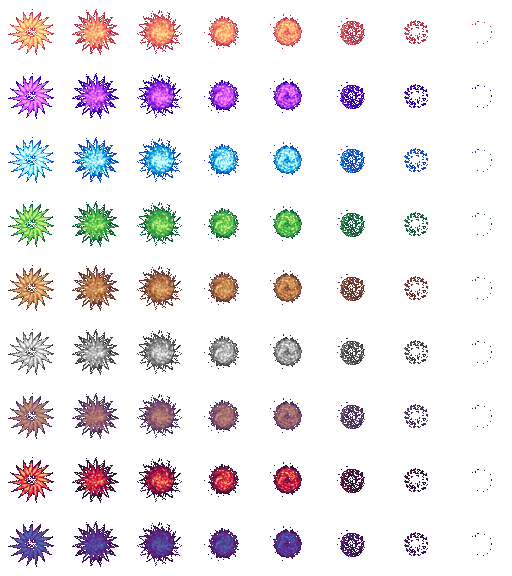
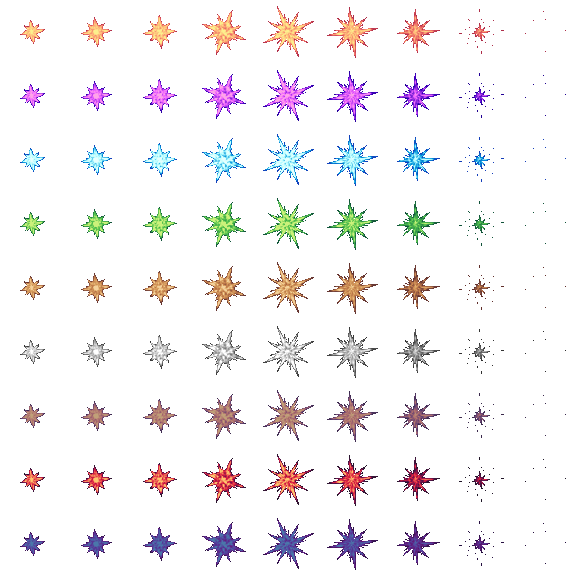
final balance changes

diff --git a/static/index.js b/static/index.js
@@ -299,8 +299,8 @@ let enemyInfo = {
         "delay": 60,
     },
     "mage": {
-        "maxHealth": 4,
-        "attackDamage": 2,
+        "maxHealth": 3,
+        "attackDamage": 1,
         "speed": 3,
         "attackDistance": 6,
         "canKnockback": true,
@@ -446,7 +446,7 @@ function init() {
         {"var": healthGainImage, "url": "static/images/stats/HEALTH_GAIN.png"},
         {"var": powerupImage, "url": "static/images/stats/POWERUPS.png"},
         {"var": spikesImage, "url": "static/images/spikes.png"},
-        {"var": bossEffect, "url": "static/images/bossEffect.svg"},
+        {"var": bossEffect, "url": "static/images/bossEffect.png"},
         {"var": audioUp, "url": "static/images/volume-up.svg"},
         {"var": audioMute, "url": "static/images/volume-mute.svg"},
         {"var": walkAudio, "url": "static/audio/walk.wav"},
@@ -500,7 +500,6 @@ function draw() {
 
             handleEnemyAttacking();
 
-            drawEnemies();
             
             handleEnemyProjectiles();
 
@@ -509,6 +508,8 @@ function draw() {
             moveEnemies();
 
             handleBoss();
+            
+            drawEnemies();
 
             movePlayer(); 
 
@@ -1437,6 +1438,12 @@ function moveEnemies() {
 let bossEnemySpawnTimer = 0;
 let bossEnemiesCanSpawn = true;
 let canTeleport = true;
+let effectActive = false;
+let effectFrame = 7;
+let effectFrameCounter = 1;
+let effectReverse = false;
+let effectRepeats = 2;
+
 function handleBoss () {
     if (boss) {
         if (boss.isHit) {
@@ -1460,7 +1467,43 @@ function handleBoss () {
 
         if (elapsed >= 20000) {
             bossEnemiesCanSpawn = true;
-            enemySpawnQueue.push("paladin 1", "mage 2");
+            effectActive = true;
+        }
+        // draws a star shape around the boss to indicate he is spawning enemies
+        if(effectActive) {
+            context.drawImage(bossEffect, effectFrame*64, 128, 64, 64,
+                boss.x, boss.y+24, 64, 64)
+
+            if (!effectReverse) {
+                if (effectFrameCounter === 0) {
+                    effectFrame --;
+                    effectFrameCounter = 2;
+                    if (effectFrame === 0) {
+                        effectReverse = true;
+                    }
+                }
+                else {
+                    effectFrameCounter --;
+                }
+            }
+            else {
+                if (effectFrameCounter === 0) {
+                    effectFrame ++
+                    effectFrameCounter = 2;
+                    if (effectFrame === 7) {
+                        effectReverse = false;
+                        effectRepeats --;
+                    }
+                }
+                else {
+                    effectFrameCounter --;
+                }
+            }
+            if (effectRepeats === 0) {
+                effectActive = false;
+                effectRepeats = 2;
+                enemySpawnQueue.push("paladin 3", "mage 3"); // the boss spawns enemies
+            }
         }
     }
 
@@ -1871,13 +1914,13 @@ function load_assets(assets, callback) {
 }
 
 let obstacles = [];
-let obstaclesAmount = 5;
+let obstaclesAmount = 3;
 
 function createObstacles() {
     while (obstacles.length < obstaclesAmount) {
         let isValid = true;
-        let obX = randint(boundaryLocation()["left"]*8, boundaryLocation()["right"]-2*squareSize);
-        let obY = randint(boundaryLocation()["up"]*4, boundaryLocation()["down"]-2*squareSize);
+        let obX = randint(boundaryLocation()["left"], boundaryLocation()["right"]);
+        let obY = randint(boundaryLocation()["up"]+32, boundaryLocation()["down"]-32);
 
         if (!(obX % squareSize === 0)) {
             obX = (Math.round(obX / squareSize) * squareSize) + 1;
@@ -1890,9 +1933,21 @@ function createObstacles() {
             obY++;
         }
 
+        let o = { 
+            x: obX, 
+            y: obY, 
+            width: squareSize,
+            height: squareSize, 
+        };
+
         // obstacles cant spawn near player
         if ((player.x - 3*squareSize <= obX && player.x + 3*squareSize >= obX) && 
             (player.y - 3*squareSize <= obY && player.y + 3*squareSize >= obY)) {
+            isValid = false;
+            break;
+        }
+        
+        if (collides(o, spawn)) {
             isValid = false;
             break;
         }
@@ -1906,14 +1961,7 @@ function createObstacles() {
             }
         } 
         if (isValid) {    
-            let o = { 
-                x: obX, 
-                y: obY, 
-                width: squareSize,
-                height: squareSize, 
-            };
-                
-                obstacles.push(o);
+            obstacles.push(o);
         }
     }
 
@@ -2100,7 +2148,7 @@ function handlePowerups() {
 
 let levelTransitionActive = false;
 let transitionStartTime = 0;
-let transitionDuration = 1//4000;
+let transitionDuration = 4000;
 let nextLevelReady = false;
 
 function handleLevelTransition() {

diff --git a/templates/attribution.html b/templates/attribution.html
@@ -14,6 +14,8 @@
         <p><a href="https://opengameart.org/content/icicle-spell">Icicle Spell</a></p>
         <p><a href="https://iconduck.com/icons/22571/volume-up">Sound Icon</a></p>
         <p><a href="https://iconduck.com/icons/22569/volume-mute">Muted Sound Icon</a></p>
+        <p><a href="https://bdragon1727.itch.io/1050-rpg-effects-64x64">Boss Effect</a></p>
+        <p><a href="https://stealthix.itch.io/animated-traps">Spike Trap Sprite</a></p>
     </section>
     <section>
         <h1>Code</h1>

diff --git a/static/levels.js b/static/levels.js
@@ -1,8 +1,8 @@
 let levels = [
     {
       id: 1,
-      enemySpawnQueue: ["boss 1"]//["skeleton 5", "archer 5", "skeleton 5", "archer 5", "skeleton 5", 
-                       // "archer 5", "skeleton 5", "archer 5", "skeleton 5", "archer 5",]
+      enemySpawnQueue: ["skeleton 5", "archer 5", "skeleton 5", "archer 5", "skeleton 5", 
+                        "archer 5", "skeleton 5", "archer 5", "skeleton 5", "archer 5",]
       
     },
     {

diff --git a/templates/game.html b/templates/game.html
@@ -6,7 +6,7 @@
         <section id="startPause">
             <p>Press B to pause and see controls</p>
             <p>Press P to enable cheats. If you use cheats it will show on the leaderboard</p>
-            <p>Press M to clear the level.</p>
+            <p>Press M to clear the level. (cheats)</p>
         </section>
 
         <section id="levelTransition">

diff --git a/static/register.css b/static/register.css
@@ -8,6 +8,7 @@ body {
     flex-direction: column;
     align-items: center;
     justify-content: center;
+    text-shadow: none;
 }
 
 main {
